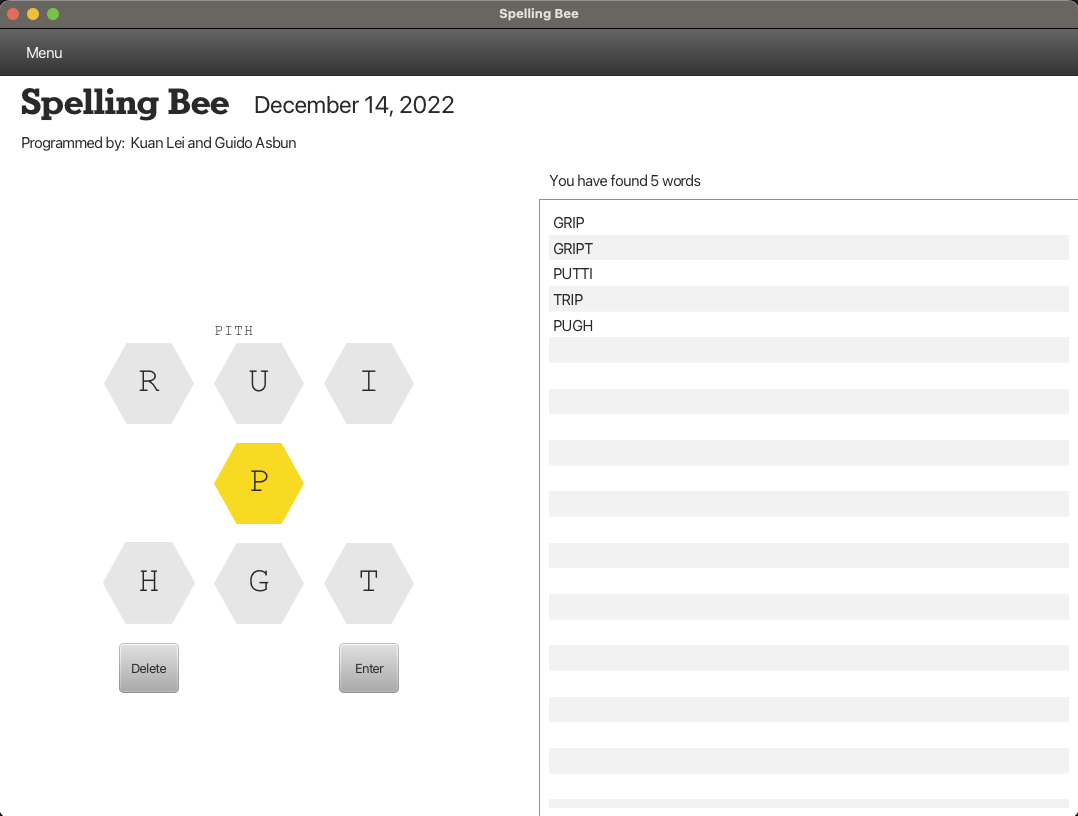
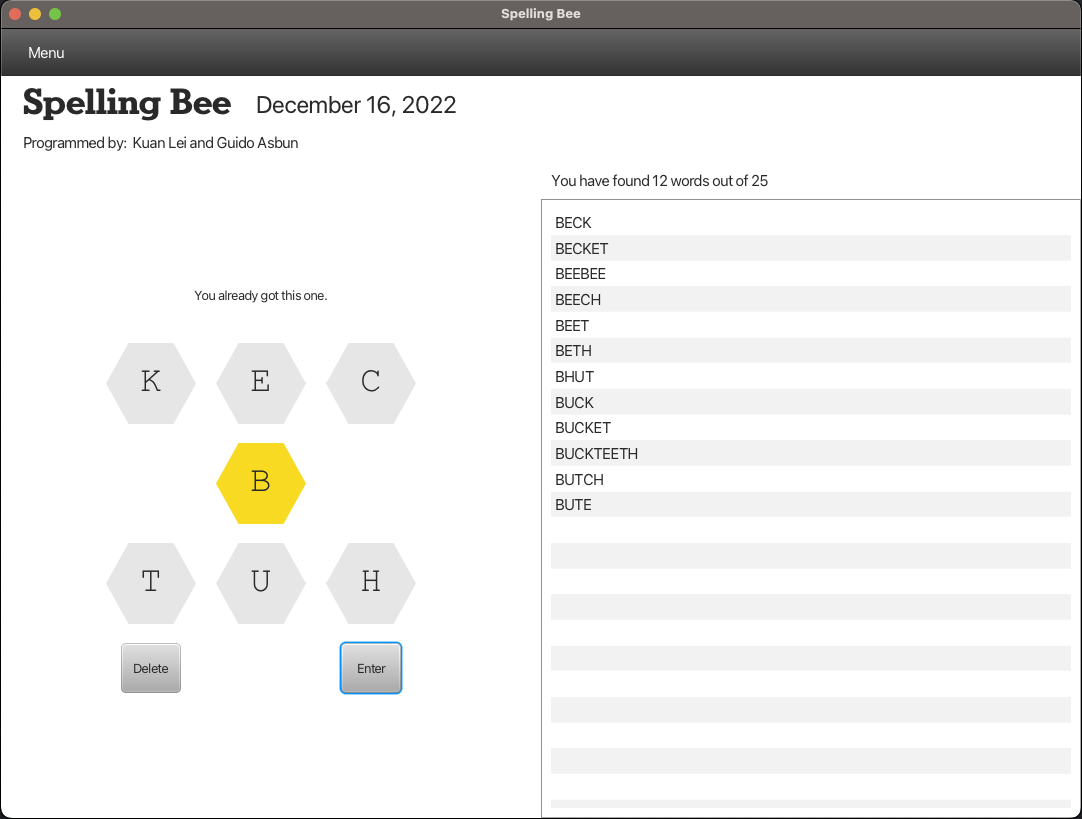
Display total number of correct words

diff --git a/src/main/java/com/cs272/spellingbee/SpellingBeeController.java b/src/main/java/com/cs272/spellingbee/SpellingBeeController.java
@@ -61,7 +61,7 @@ public class SpellingBeeController {
         });
 
         // Initializes the correct word count message
-        correctWordCount.setText("You have found " + correctWordList.getSize() + " words");
+        updateCorrectWordCount();
     }
 
     // Action handler Methods
@@ -81,7 +81,7 @@ public class SpellingBeeController {
         }
 
         // Resets the words count
-        correctWordCount.setText("You have found " + correctWordList.getSize() + " words");
+        updateCorrectWordCount();
     }
 
     // Private Helper Functions
@@ -97,7 +97,7 @@ public class SpellingBeeController {
             correctWordList.addWord(word);
             correctWordsListView.getItems().clear();
             correctWordList.getCorrectWordListView(correctWordsListView);
-            correctWordCount.setText("You have found " + correctWordList.getSize() + " words");
+            updateCorrectWordCount();
         } else {
             selection.assignErrorMessage("You already got this one.");
         }
@@ -107,5 +107,11 @@ public class SpellingBeeController {
         correctWordList.removeAll();
         correctWordsListView.getItems().clear();
         correctWordList.getCorrectWordListView(correctWordsListView);
+    }
+
+    public void updateCorrectWordCount() {
+        correctWordCount.setText("You have found " + correctWordList.getSize()
+                + (correctWordList.getSize() == 1 ? " word out of " : " words out of ")
+                + gameVariables.getTotalCorrectWords());
     }
 }

diff --git a/src/main/java/com/cs272/spellingbee/Objects/GameVariables/GameVariables.java b/src/main/java/com/cs272/spellingbee/Objects/GameVariables/GameVariables.java
@@ -14,6 +14,7 @@ import java.util.Scanner;
 public class GameVariables {
     private final String letters;
     private final String centerWord;
+    private Long totalCorrectWords;
     private final StringChainHashSet wordList = new StringChainHashSet();
 
     public GameVariables() throws ParseException {
@@ -53,6 +54,7 @@ public class GameVariables {
 
         this.letters = (String) jsonObject.get("letters");
         this.centerWord = (String) jsonObject.get("center");
+        this.totalCorrectWords = (Long) jsonObject.get("words");
         JSONArray array = (JSONArray) jsonObject.get("wordlist");
         for (Object word : array) {
             wordList.add((String) word);
@@ -65,6 +67,10 @@ public class GameVariables {
 
     public  String getCenterWord() {
         return this.centerWord;
+    }
+
+    public Long getTotalCorrectWords() {
+        return this.totalCorrectWords;
     }
 
     public Boolean checkWord(String word) {
